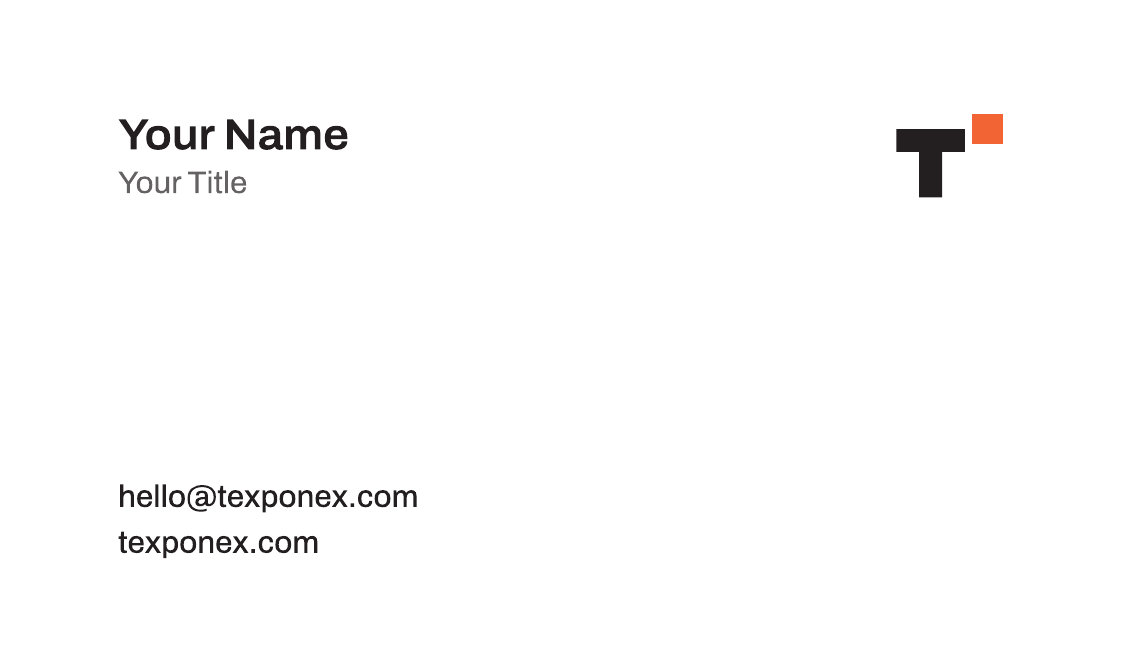
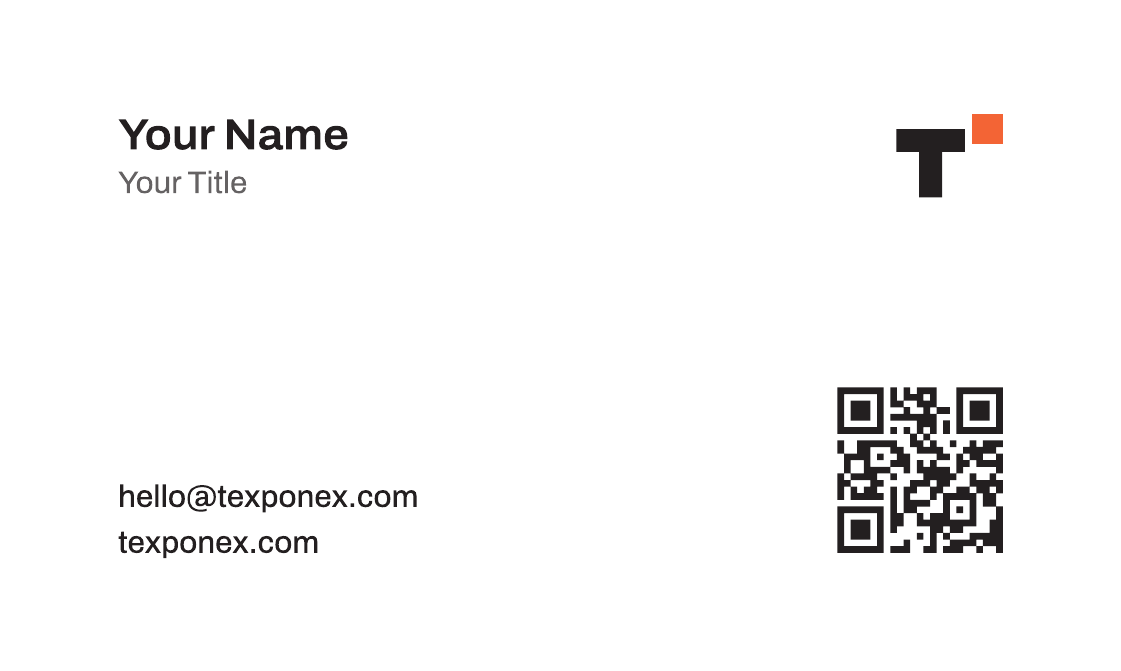
Add a website QR code to the business card; keep personal details private
- Card back: QR code (14 mm, K100 vector, quiet zone kept clear) linking
  to https://texponex.com, aligned with the contact block; verified to
  decode from the print file at several resolutions
- Personal card details now live in brand/business-card.local.json and
  personal cards are written to brand/print/private/; both are
  git-ignored because the repository is public
- The committed card keeps the "Your Name / Your Title" placeholders

Claude-Session: https://claude.ai/code/session_015wEnQCD6ctFqGCpPx8mT9S

Changed region(s): [[0.7493, 0.5663, 0.9054, 0.8346]]

diff --git a/scripts/brand/brand.py b/scripts/brand/brand.py
@@ -13,9 +13,11 @@ Brand kit (brand/):
     logo/pdf/*.pdf                    the same as CMYK vector PDFs (print)
     print/texponex-business-card.pdf  print-ready card, 3.5 × 2 in + 3 mm bleed,
                                       all text outlined; text from brand/business-card.json
+    print/private/…                   your personal card, from brand/business-card.local.json
+                                      (git-ignored, so personal details stay out of the repository)
 PNG exports are rendered afterwards by scripts/brand/render-images.mjs.
 
-Requires: pip install fonttools brotli uharfbuzz      Run: npm run brand
+Requires: pip install fonttools brotli uharfbuzz segno      Run: npm run brand
 """
 
 import io
@@ -27,6 +29,7 @@ import zlib
 from functools import lru_cache
 from pathlib import Path
 
+import segno
 import uharfbuzz as hb
 from fontTools.pens.basePen import BasePen
 from fontTools.pens.boundsPen import BoundsPen
@@ -295,6 +298,13 @@ def business_card(path, details, logo, mark):
         ops, *_ = shape(line, size=7.5, wght=480, wdth=100, x=left, baseline=bottom - index * 11)
         back += pdf_fill(ops, CMYK_BLACK)
 
+    # QR code to the website, bottom-right, sitting on the last text baseline.
+    # K100 only for a crisp single-plate print; the 4-module quiet zone falls
+    # inside the card's blank margin.
+    if details.get("qr"):
+        size = QR_SIZE_MM * MM
+        back += pdf_fill(qr_ops(details["qr"], size), CMYK_BLACK, dx=right - size, dy=bottom - size)
+
     m_scale = 9 * MM / mark["width"]
     mx = right - mark["width"] * m_scale
     back += pdf_fill(mark["ink"], CMYK_BLACK, scale=m_scale, dx=mx, dy=top - 1)
@@ -304,6 +314,29 @@ def business_card(path, details, logo, mark):
         {"size": (W, H), "content": front, "trim": trim},
         {"size": (W, H), "content": back, "trim": trim},
     ], f"{NAME} business card")
+
+
+QR_SIZE_MM = 14  # symbol only; plus a 4-module quiet zone of blank paper
+
+
+def qr_ops(data, size):
+    """QR code as vector paths (one rectangle per horizontal run of dark modules),
+    `size` wide without the quiet zone. Error correction M survives small marks."""
+    matrix = [list(row) for row in segno.make(data, error="m", micro=False, boost_error=False).matrix]
+    module = size / len(matrix)
+    ops = []
+    for y, row in enumerate(matrix):
+        x = 0
+        while x < len(row):
+            if row[x]:
+                start = x
+                while x < len(row) and row[x]:
+                    x += 1
+                # Rows overlap by a hair so no white line can appear between them.
+                ops += rect(start * module, y * module, (x - start) * module, module + 0.02)
+            else:
+                x += 1
+    return ops
 
 
 # ---------------------------------------------------------------------------
@@ -395,6 +428,9 @@ def main():
             (svg_dir / f"{stem}.svg").write_text(svg_file(art, ink, accent, margin=clear))
             logo_pdf(pdf_dir / f"{stem}-cmyk.pdf", art, ink_cmyk, accent_cmyk, width_mm, f"{NAME} {kind} ({name}, CMYK)")
 
+    # Business cards: the committed card uses the public details in
+    # business-card.json; personal details go in business-card.local.json,
+    # which git ignores, and produce a card in print/private/.
     details_file = KIT / "business-card.json"
     if not details_file.exists():
         details_file.write_text(json.dumps({
@@ -403,17 +439,24 @@ def main():
             "phone": "",
             "email": "hello@texponex.com",
             "website": "texponex.com",
+            "qr": "https://texponex.com",
         }, indent=2) + "\n")
-    details = json.loads(details_file.read_text())
-    card = print_dir / "texponex-business-card.pdf"
-    business_card(card, details, logo, mark)
+    cards = [(json.loads(details_file.read_text()), print_dir)]
+    local_file = KIT / "business-card.local.json"
+    if local_file.exists():
+        private = print_dir / "private"
+        private.mkdir(exist_ok=True)
+        cards.append(({**cards[0][0], **json.loads(local_file.read_text())}, private))
 
-    # Card previews (optional: needs poppler's pdftoppm)
-    if shutil.which("pdftoppm"):
-        for page, side in ((1, "front"), (2, "back")):
-            stem = print_dir / f"texponex-business-card-{side}-preview"
-            subprocess.run(["pdftoppm", "-png", "-r", "300", "-f", str(page), "-l", str(page), "-singlefile",
-                            str(card), str(stem)], check=True)
+    for details, directory in cards:
+        card = directory / "texponex-business-card.pdf"
+        business_card(card, details, logo, mark)
+        if shutil.which("pdftoppm"):  # previews (poppler)
+            for page, side in ((1, "front"), (2, "back")):
+                stem = directory / f"texponex-business-card-{side}-preview"
+                subprocess.run(["pdftoppm", "-png", "-r", "300", "-f", str(page), "-l", str(page), "-singlefile",
+                                str(card), str(stem)], check=True)
+        print(f"Business card written: {card.relative_to(ROOT)}")
 
     print(f"Primary logo {logo['width']} × {logo['height']} units; symbol {SYMBOL_W} × {SYMBOL_H}.")
     print("Website assets and brand kit written (brand/). Next: node scripts/brand/render-images.mjs")

diff --git a/brand/README.md b/brand/README.md
@@ -85,14 +85,24 @@ Print-ready file: [`print/texponex-business-card.pdf`](print/texponex-business-c
 | Safe area | Text and logo at least 5 mm inside the trim edge |
 | Color | CMYK; front background rich black C60 M40 Y40 K100; ember C0 M65 Y81 K0 |
 | Text | Converted to outlines — no fonts needed by the printer |
+| QR code | Back, bottom-right, 14 mm, black (K100) only, links to `https://texponex.com`; quiet zone kept clear; verified to decode from the print file |
 | Boxes | PDF TrimBox and BleedBox are set; no crop marks (most printers prefer this) |
 
-**Put your details on the card**
+**Put your details on the card — privately**
 
-1. Edit [`business-card.json`](business-card.json) — name, title, optional phone,
-   email and website. It currently holds the placeholders **“Your Name” / “Your Title”**.
-2. Run `npm run brand` (needs `pip install fonttools brotli uharfbuzz` once).
-3. The PDF and previews in `print/` are regenerated.
+This repository is public, so personal details are kept out of it:
+
+1. Create `brand/business-card.local.json` (git ignores it) with your details, e.g.
+
+   ```json
+   { "name": "Your Name", "title": "Your Title", "phone": "+91 00000 00000" }
+   ```
+
+   Any field you leave out (email, website, QR link) comes from
+   [`business-card.json`](business-card.json), which holds the public company details.
+2. Run `npm run brand` (needs `pip install fonttools brotli uharfbuzz segno` once).
+3. Your card is written to `brand/print/private/` (also git-ignored); the card in
+   `brand/print/` keeps the placeholders **“Your Name” / “Your Title”**.
 
 **Recommended production** (ask your printer): 350–400 gsm uncoated or matte card in a
 warm white; optional soft-touch matte lamination on the front only. Ask for a printed
@@ -102,7 +112,7 @@ outlined text.
 ## Regenerating the kit
 
 ```bash
-pip install fonttools brotli uharfbuzz   # once
+pip install fonttools brotli uharfbuzz segno   # once
 npm run brand
 ```
 

diff --git a/README.md b/README.md
@@ -211,10 +211,10 @@ The logo files for print, documents and social media — including CMYK vector P
 and a print-ready business card — are in **[`brand/`](brand/README.md)**, with a
 guide to which file to use where.
 
-To regenerate the logo everywhere (website and kit), e.g. after editing the card
-details in `brand/business-card.json`:
+To regenerate the logo everywhere (website and kit), e.g. after editing your card
+details in `brand/business-card.local.json` (private — see `brand/README.md`):
 
 ```bash
-pip install fonttools brotli uharfbuzz   # once
+pip install fonttools brotli uharfbuzz segno   # once
 npm run brand                            # needs Playwright Chromium for the PNGs
 ```
